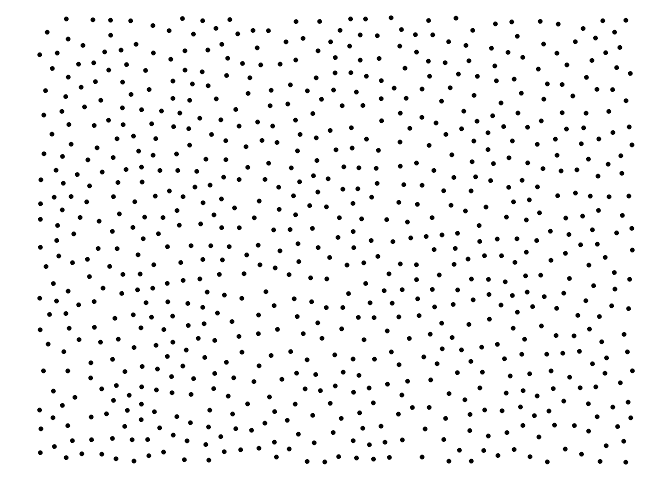
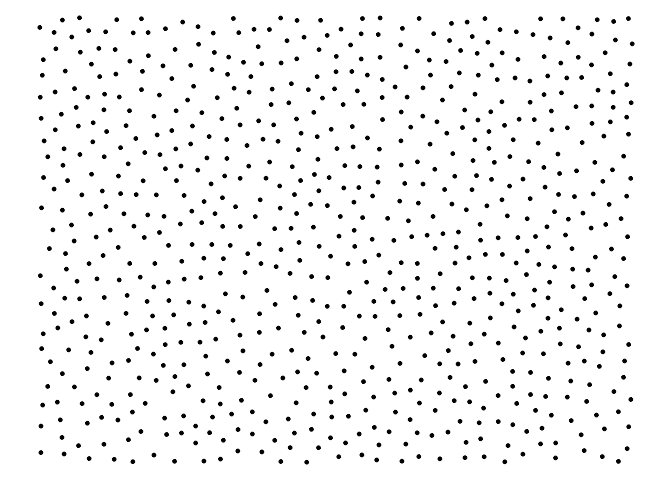
Fixed: when specified width/height <= 1 xinit/yinit could be created out-of-bounds

diff --git a/src/poisson.c b/src/poisson.c
@@ -328,8 +328,8 @@ SEXP poisson2d_(SEXP w_, SEXP h_, SEXP r_, SEXP k_, SEXP verbosity_) {
   double v1 = unif_rand();
   double v2 = unif_rand();
   PutRNGstate();
-  double xinit = (double)w/2.0 + v1;
-  double yinit = (double)h/2.0 + v2;
+  double xinit = (double)w/2.0 + v1 * cell_size;
+  double yinit = (double)h/2.0 + v2 * cell_size;
   // Rprintf("(%.2f, %.2f) Init [%.2f, %.2f]\n", xinit, yinit, v1, v2);
   
   int point_idx = add_point(&p, xinit, yinit, 0);
@@ -462,9 +462,9 @@ SEXP poisson3d_(SEXP w_, SEXP h_, SEXP d_, SEXP r_, SEXP k_, SEXP verbosity_) {
   double v2 = unif_rand();
   double v3 = unif_rand();
   PutRNGstate();
-  double xinit = (double)w/2.0 + v1;
-  double yinit = (double)h/2.0 + v2;
-  double zinit = (double)d/2.0 + v3;
+  double xinit = (double)w/2.0 + v1 * cell_size;
+  double yinit = (double)h/2.0 + v2 * cell_size;
+  double zinit = (double)d/2.0 + v3 * cell_size;
   // Rprintf("(%.2f, %.2f) Init [%.2f, %.2f]\n", xinit, yinit, v1, v2);
   
   int point_idx = add_point(&p, xinit, yinit, zinit);

diff --git a/README.md b/README.md
@@ -19,10 +19,16 @@ Dimensions](https://www.cs.ubc.ca/~rbridson/docs/bridson-siggraph07-poissondisk.
 
 ### What’s in the box
 
-- `poisson2d()` for the 2D case
-- `poisson3d()` for the 3D case
+- `poisson2d()` generate samples in the XY plane
+- `poisson3d()` generate samples in 3D
 
 ## Installation
+
+This package can be installed from CRAN
+
+``` r
+install.packages('ctypesio')
+```
 
 You can install from
 [GitHub](https://github.com/coolbutuseless/poissoned) with:
@@ -30,6 +36,13 @@ You can install from
 ``` r
 # install.packages("devtools")
 devtools::install_github("coolbutuseless/poissoned")
+```
+
+Pre-built source/binary versions can also be installed from
+[R-universe](https://r-universe.dev)
+
+``` r
+install.packages('poissoned', repos = c('https://coolbutuseless.r-universe.dev', 'https://cloud.r-project.org'))
 ```
 
 ## 2D Poisson Disk Sampling

diff --git a/NEWS.md b/NEWS.md
@@ -1,3 +1,11 @@
+# poissoned 0.1.3.9000
+
+* Fix DOI
+* Fix referencing to be be "Author (Year)" in DESCRIPTION
+* Add package doc
+* Bug fix for initialization points for small canvases
+* Add instructions to install from CRAN
+
 # poissoned 0.1.3  2024-10-19
 
 * Rewrite in C
